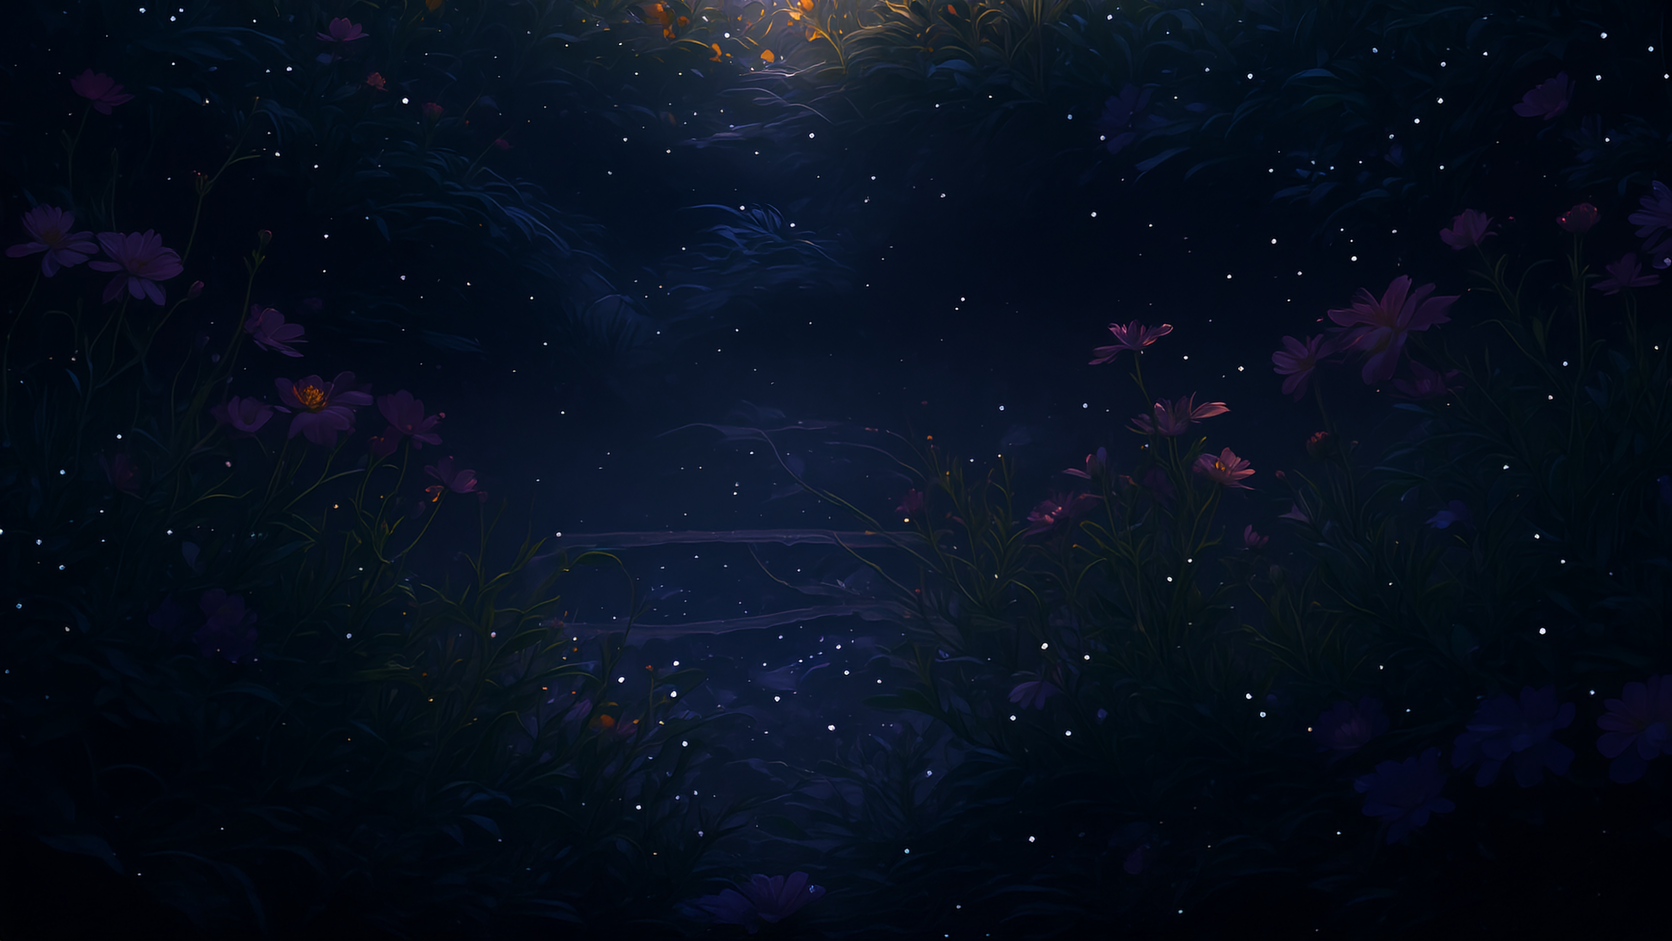
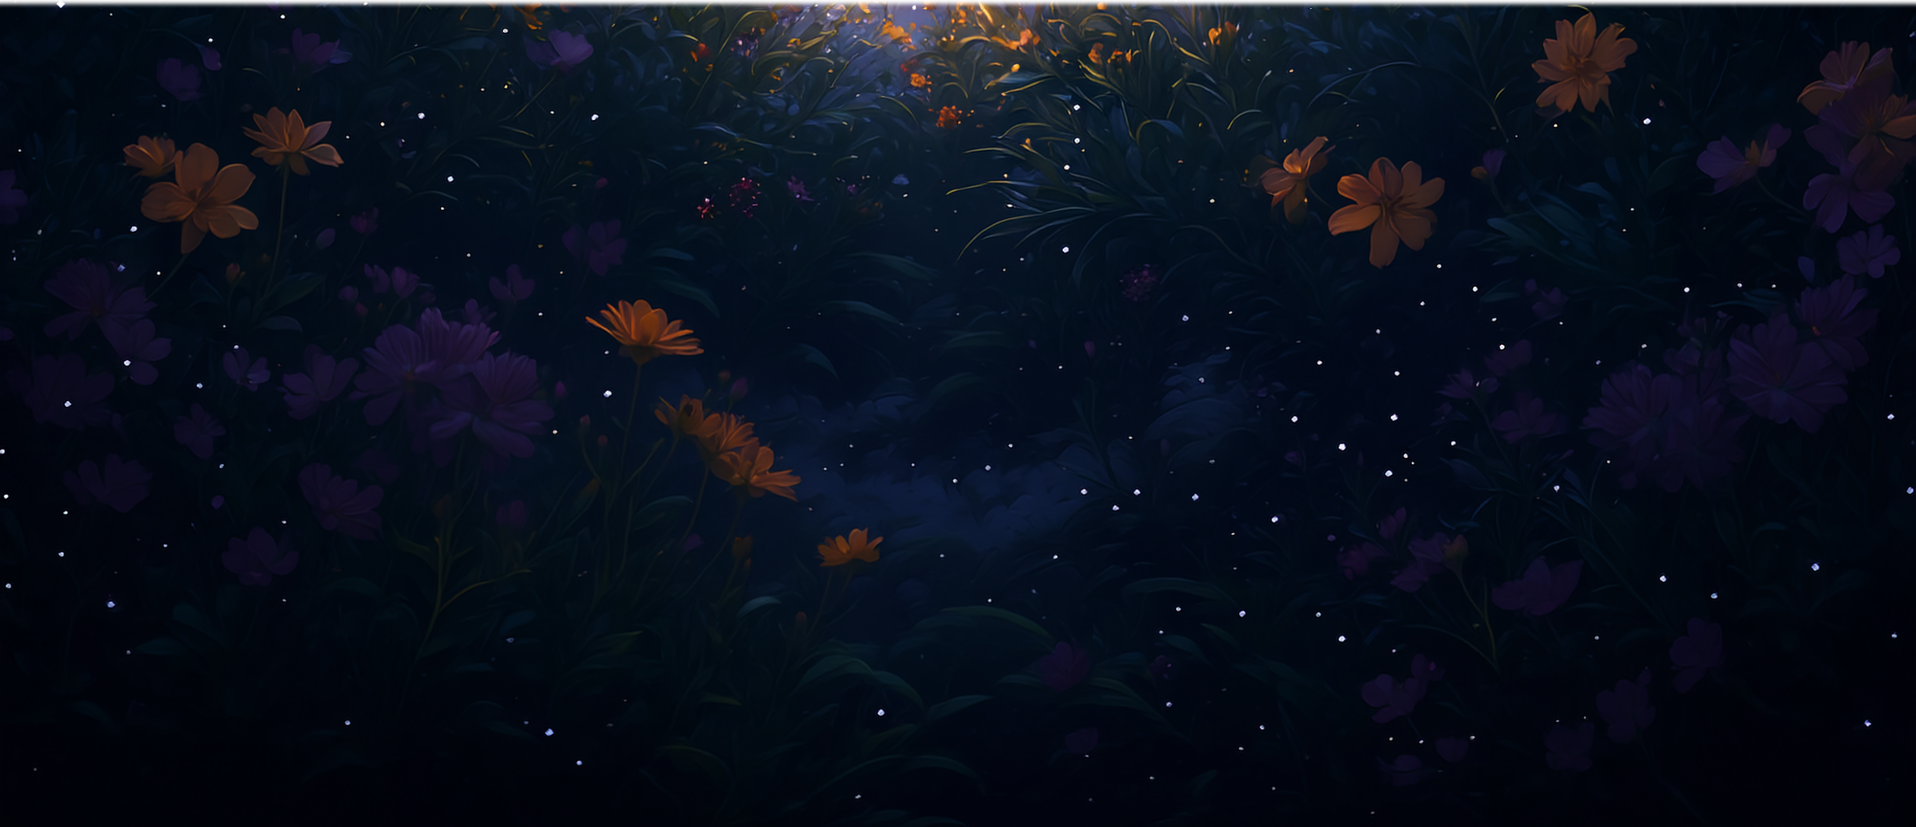
feat(home): news carousel under hero (Supabase likes/comments, share-to-Stories); seamless hero->news seam (width-matched artwork, object-bottom, carried magic-hour veil)

diff --git a/src/components/news/NewsSection.tsx b/src/components/news/NewsSection.tsx
@@ -4,11 +4,15 @@ import type { News } from "@/data/news";
 import type { EngagementMap } from "@/components/news/types";
 
 // News container directly beneath the Hero. The artwork is the lower
-// continuation of the SAME source image the Hero was built from, so we keep the
-// image pristine (anchored to the top) and only carry the Hero's magic-hour
-// veil across the seam: the dark pool that closes the Hero (ending at
-// rgba(16,14,40,0.88)) continues at the top of this section and lifts as you
-// scroll in — same gradient family, so the seam reads as one continuous image.
+// continuation of the SAME source as the Hero, so for a seamless seam:
+//   • the Hero video is scaled by WIDTH (object-cover) and anchored to its
+//     BOTTOM edge (object-bottom);
+//   • this artwork is scaled by WIDTH too (background-size: 100% auto) and
+//     anchored to its TOP edge — identical horizontal scale ⇒ the video's
+//     bottom row meets the artwork's top row at the same magnification.
+// The artwork must be exported at the SAME WIDTH as the video (1916 px) with
+// its top edge continuing the video's bottom edge. The Hero's magic-hour veil
+// is then carried across the seam to absorb the warm→cool tonal shift.
 export default function NewsSection({
   items,
   engagement,
@@ -24,22 +28,28 @@ export default function NewsSection({
 
   return (
     <section className="relative isolate overflow-hidden px-6 pb-24 pt-32 md:px-12 md:pb-32 md:pt-40">
-      {/* Continuation artwork — anchored to the top so its top row meets the
-          Hero's bottom row exactly. */}
+      {/* Continuation artwork — scaled by width (matches the Hero video's
+          width-cover) and anchored to the top so its top row meets the Hero's
+          bottom row. Any area below the image falls back to the night colour. */}
       <div
         aria-hidden
-        className="absolute inset-0 -z-10 bg-cover bg-top"
-        style={{ backgroundImage: "url('/images/news-sky.png')", backgroundColor: "#0c0b20" }}
+        className="absolute inset-0 -z-10"
+        style={{
+          backgroundImage: "url('/images/news-sky.png')",
+          backgroundColor: "#0c0b20",
+          backgroundSize: "100% auto",
+          backgroundPosition: "top center",
+          backgroundRepeat: "no-repeat",
+        }}
       />
       {/* Seam veil — continues the Hero's magic-hour veil. Starts at the Hero's
-          exact closing tone (rgba(16,14,40,0.88)) and lifts to clear, so the
-          darkness pooled at the bottom of the Hero flows seamlessly into here. */}
+          exact closing tone (rgba(16,14,40,0.88)) and lifts to clear. */}
       <div
         aria-hidden
         className="absolute inset-x-0 top-0 -z-10 h-[420px]"
         style={{
           background:
-            "linear-gradient(180deg, rgba(16,14,40,0.88) 0%, rgba(18,16,44,0.72) 12%, rgba(20,18,48,0.42) 28%, rgba(20,18,48,0.18) 48%, rgba(20,18,48,0) 100%)",
+            "linear-gradient(180deg, rgba(14,12,36,0.97) 0%, rgba(14,12,36,0.95) 3%, rgba(16,14,40,0.82) 12%, rgba(18,16,44,0.5) 26%, rgba(20,18,48,0.26) 44%, rgba(20,18,48,0.08) 66%, rgba(20,18,48,0) 100%)",
         }}
       />
       {/* Lower legibility veil for the carousel area. */}
@@ -48,7 +58,7 @@ export default function NewsSection({
         className="absolute inset-0 -z-10"
         style={{
           background:
-            "linear-gradient(180deg, rgba(12,11,32,0) 55%, rgba(12,11,32,0.3) 100%)",
+            "linear-gradient(180deg, rgba(12,11,32,0) 55%, rgba(12,11,32,0.34) 100%)",
         }}
       />
 

diff --git a/src/components/Hero.tsx b/src/components/Hero.tsx
@@ -46,7 +46,7 @@ export default function Hero() {
         className="absolute inset-0 z-[1]"
         style={{
           background:
-            "linear-gradient(180deg, rgba(28,31,82,0.28) 0%, rgba(28,31,82,0.22) 38%, rgba(20,18,48,0.42) 60%, rgba(20,18,48,0.72) 82%, rgba(16,14,40,0.88) 100%)",
+            "linear-gradient(180deg, rgba(28,31,82,0.28) 0%, rgba(28,31,82,0.22) 38%, rgba(20,18,48,0.42) 60%, rgba(20,18,48,0.74) 82%, rgba(15,13,38,0.9) 96%, rgba(14,12,36,0.97) 100%)",
         }}
       />
       {/* Localized scrim — pools soft darkness directly behind the headline